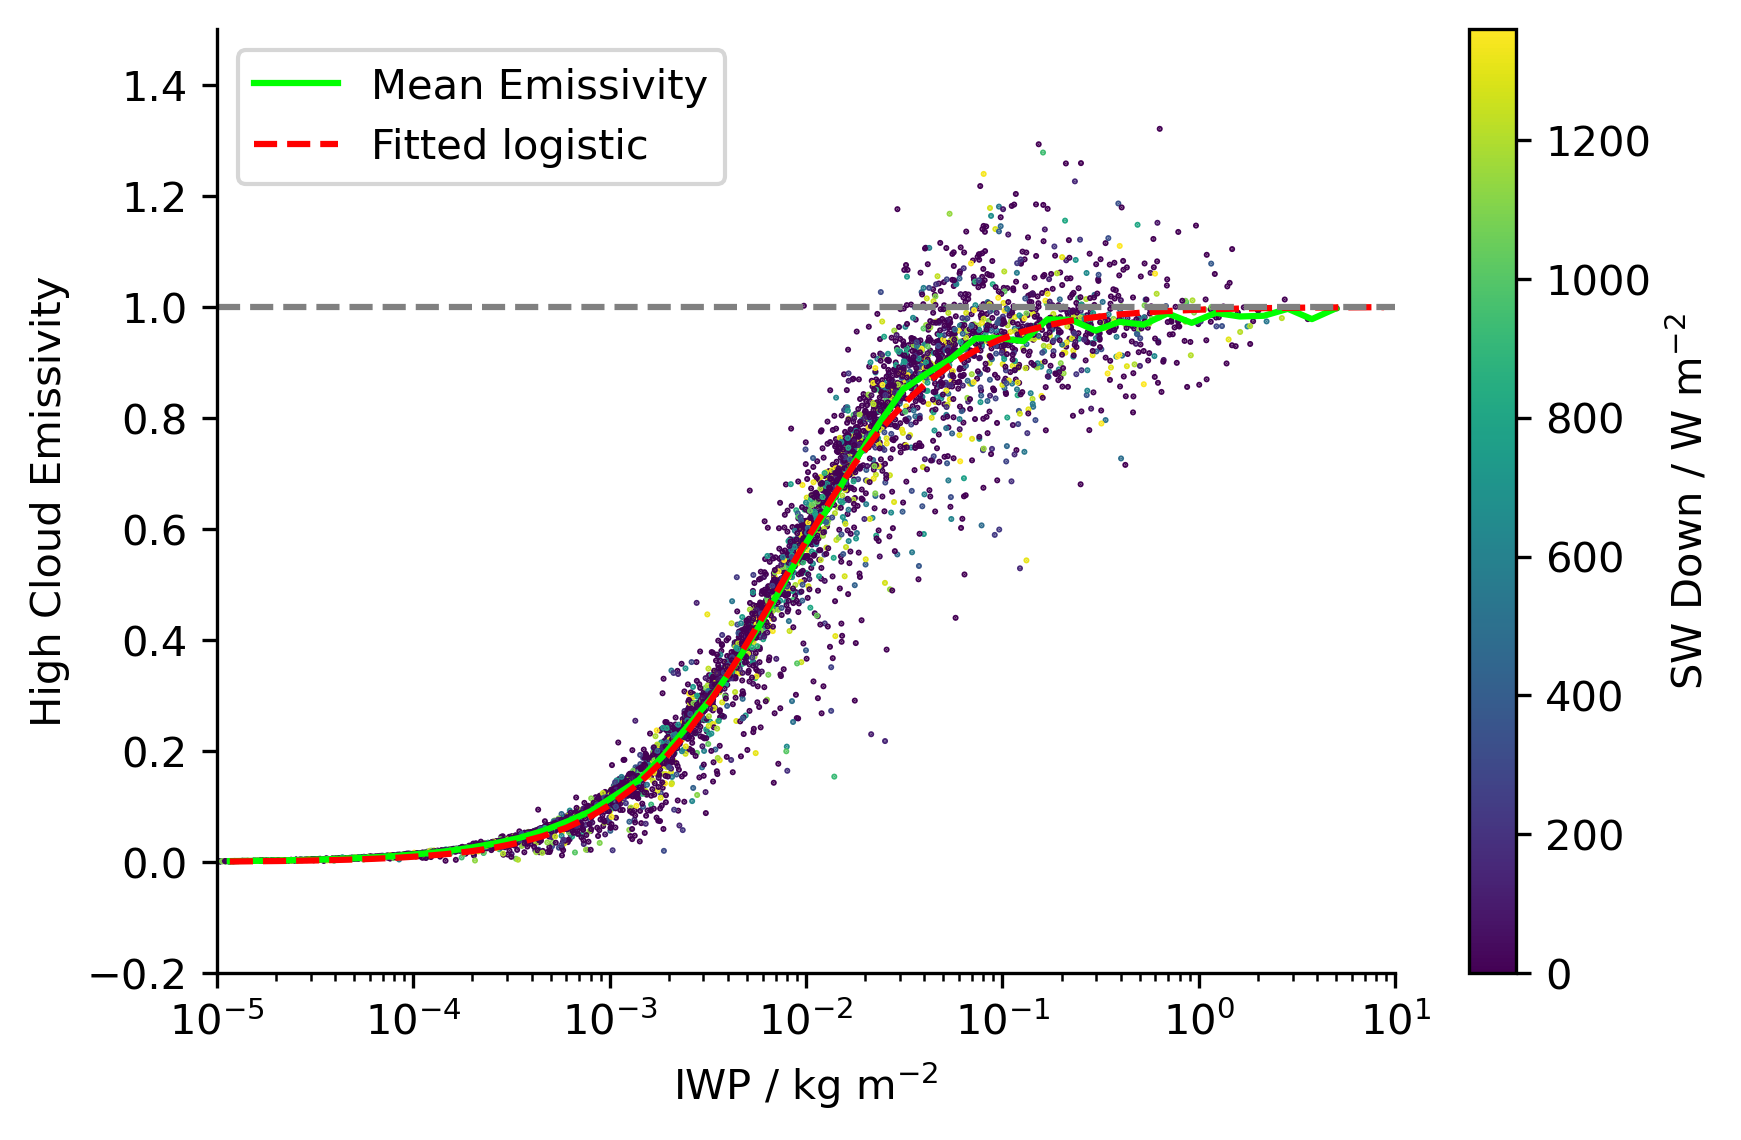
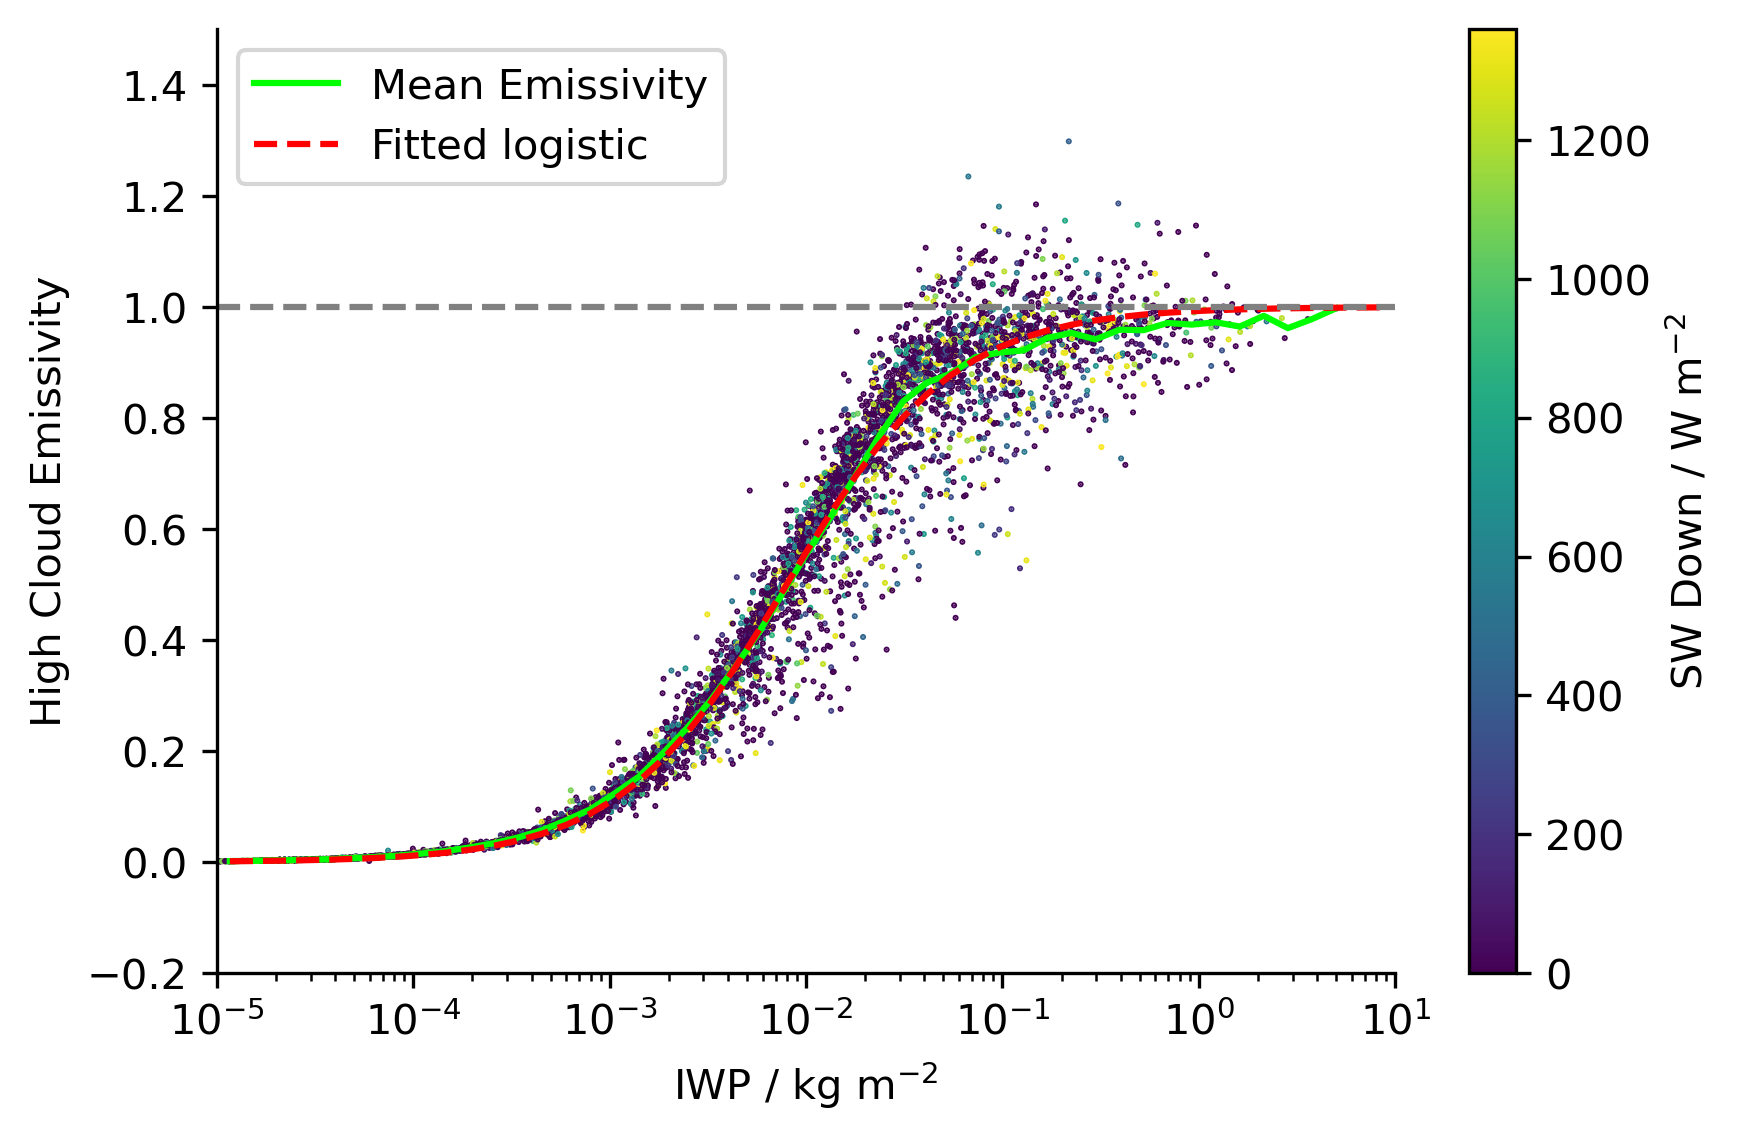
All frozen hydrometeors used to calculate high cloud top pressure

Changed region(s): [[0.2171, 0.1842, 0.7444, 0.7675]]

diff --git a/src/process_icon_arts/calculate_albedo_t_and_R_t.py b/src/process_icon_arts/calculate_albedo_t_and_R_t.py
@@ -47,7 +47,6 @@ LWP_bins = np.logspace(-14, 2, num=150)
 LWP_points = (LWP_bins[1:] + LWP_bins[:-1]) / 2
 SW_down_bins = np.linspace(0, 1360, 30)
 binned_allsky_albedo = np.zeros([len(LWP_bins) - 1, len(SW_down_bins) - 1]) * np.nan
-binned_clearsky_albedo = np.zeros(len(SW_down_bins) - 1) * np.nan
 
 # allsky albedo depends on SW and LWP
 for i in range(len(LWP_bins) - 1):
@@ -61,17 +60,6 @@ for i in range(len(LWP_bins) - 1):
             .mean()
             .values
         )
-
-# clearsky albedo depends on SW only
-for j in range(len(SW_down_bins) - 1):
-    SW_mask = (fluxes_3d["clearsky_sw_down"].isel(pressure=-1) > SW_down_bins[j]) & (
-        fluxes_3d["clearsky_sw_down"].isel(pressure=-1) <= SW_down_bins[j + 1]
-    )
-    binned_clearsky_albedo[j] = float(
-        (lc_vars["albedo_clearsky"].where(SW_mask).sel(lat=slice(-30, 30)))
-        .mean()
-        .values
-    )
 
 # %% interpolate albedo bins
 non_nan_indices = np.array(np.where(~np.isnan(binned_allsky_albedo)))
@@ -119,7 +107,7 @@ mean_lc_vars.index = LWP_points
 mean_lc_vars.index.name = "LWP"
 mean_lc_vars["binned_albedo"] = mean_allsky_albedo
 mean_lc_vars["interpolated_albedo"] = mean_allsky_albedo_interp
-mean_clearsky_albedo = np.sum(binned_clearsky_albedo * SW_down) / np.sum(SW_down)
+mean_clearsky_albedo = lc_vars["albedo_clearsky"].sel(lat=slice(-30, 30)).mean().values
 
 # calculate average albedo for LWP > 1e-6
 number_of_points = np.zeros(len(LWP_points))
@@ -166,10 +154,13 @@ fig, ax = scatterplot(
     xlim=[1e-14, 1e2],
 )
 
-ax.axhline(mean_clearsky_albedo, color="k", linestyle="-")
-ax.axhline(average_albedo, color="grey", linestyle=":")
-ax.plot(mean_lc_vars["interpolated_albedo"], color="k", linestyle="-")
-ax.plot(LWP_points, logistic_curve, color="r", linestyle="--")
+ax.axhline(mean_clearsky_albedo, color="k", linestyle="--", label="Mean clearsky")
+ax.axhline(average_albedo, color="grey", linestyle="--", label='Mean low cloud')
+ax.plot(mean_lc_vars["interpolated_albedo"], color="k", linestyle="-", label="Mean")
+ax.plot(LWP_points, logistic_curve, color="r", linestyle="--", label="Fit")
+ax.legend()
+fig.tight_layout()
+fig.savefig("plots/albedo_vs_LWP.png", dpi=300)
 
 # %% plot clearsky albedo
 
@@ -194,9 +185,9 @@ print(f"Ocean albedo: {mean_ocean_albedo.values.round(4)}")
 
 # %% calculate R_t
 R_t = fluxes_3d_noice.isel(pressure=-1)["allsky_lw_up"]
-clearsky_flux = (
+clearsky_R_t = (
     fluxes_3d_noice.isel(pressure=-1)["clearsky_lw_up"].sel(lat=slice(-30, 30)).mean()
-)
+).values
 lc_vars["R_t"] = R_t
 
 # %% linear regression of R_t vs LWP for LWP > 1e-6
@@ -211,28 +202,39 @@ result = linregress(x_data, y_data)
 # %% average R_t over LWP bins
 R_t_binned = cut_data(R_t).groupby_bins(cut_data(atms["LWP"]), LWP_bins).mean()
 mean_lc_vars["binned_R_t"] = R_t_binned
-average_r_t = cut_data(R_t).where(mask_lwp).mean().values
+lc_R_t = cut_data(R_t).where(mask_lwp).mean().values
 
 # %% plot R_t vs LWP
-fig, ax = scatterplot(
-    cut_data(atms["LWP"]),
-    cut_data(lc_vars["R_t"]),
-    cut_data(fluxes_3d_noice.isel(pressure=-1)["clearsky_sw_down"]),
-    xlabel="LWP / kg m$^{-2}$",
-    ylabel="R$_t$",
-    cbar_label="SW Down / W m$^{-2}$",
-    xlim=[1e-6, 1e2],
-)
-mean_lc_vars["binned_R_t"].plot(ax=ax, color="red", linestyle="-")
-ax.axhline(clearsky_flux, color="k", linestyle="--")
-ax.axhline(average_r_t, color="grey", linestyle=":")
-lwp_points = np.logspace(-6, 2, 100)
+fig, ax = plt.subplots()
+
+ax.scatter(cut_data(atms["LWP"]),cut_data(lc_vars["R_t"]), marker=".", s=1, color="blue")
+
+mean_lc_vars["binned_R_t"].plot(ax=ax, color="k", linestyle="-", label='Mean')
+ax.axhline(clearsky_R_t, color="k", linestyle="--", label='Mean clearsky')
+ax.axhline(lc_R_t, color="grey", linestyle="--", label='Mean low cloud')
+lwp_points = np.logspace(-14, 2, 100)
+
+# regression line
+y = result.intercept + result.slope * np.log10(lwp_points)
+mask = y > clearsky_R_t
+y[~mask] = clearsky_R_t
 ax.plot(
     lwp_points,
-    result.intercept + result.slope * np.log10(lwp_points),
-    color="k",
+    y,
+    color="red",
     linestyle="--",
+    label='Fit'
 )
+
+ax.spines["top"].set_visible(False)
+ax.spines["right"].set_visible(False)
+ax.set_xscale("log")
+ax.set_xlabel("LWP / kg m$^{-2}$")
+ax.set_ylabel("R$_t$ / W m$^{-2}$")
+ax.legend()
+fig.tight_layout()
+fig.savefig("plots/R_t_vs_LWP.png", dpi=300)
+
 
 # %% save variables
 path = "/work/bm1183/m301049/icon_arts_processed/derived_quantities/"
@@ -249,6 +251,6 @@ with open(path + "alpha_t_params.pkl", "wb") as f:
     pickle.dump(popt, f)
 
 with open(path + "average_a_t_r_t.pkl", "wb") as f:
-    pickle.dump({'a_t': average_albedo, 'R_t': average_r_t}, f)
+    pickle.dump({'a_t': average_albedo, 'R_t': lc_R_t}, f)
 
 # %%

diff --git a/src/plot_functions.py b/src/plot_functions.py
@@ -324,7 +324,7 @@ def plot_model_output(
 
     # lc fraction
     axes[1, 0].plot(result["lc_fraction"], color="magenta")
-    axes[1, 0].set_ylabel("lc_fraction")
+    axes[1, 0].set_ylabel(r"$f$")
 
     # alpha_t
     axes[1, 1].scatter(
@@ -335,9 +335,9 @@ def plot_model_output(
     )
     cut_data(fluxes_3d_noice["albedo_allsky"], mask).groupby_bins(
         cut_data(atms["IWP"], mask), bins=IWP_bins
-    ).mean().plot(ax=axes[1, 1], color="lime", label="Average")
+    ).mean().plot(ax=axes[1, 1], color="limegreen", label="Average")
     axes[1, 1].plot(result["alpha_t"], color="magenta", label="Model")
-    axes[1, 1].set_ylabel("alpha_t")
+    axes[1, 1].set_ylabel(r"$\alpha_t$")
 
     # R_t
     axes[2, 0].scatter(
@@ -345,30 +345,31 @@ def plot_model_output(
     )
     cut_data(lc_vars["R_t"], mask).groupby_bins(
         cut_data(atms["IWP"],mask), bins=IWP_bins
-    ).mean().plot(ax=axes[2, 0], color="lime", label="Average")
+    ).mean().plot(ax=axes[2, 0], color="limegreen", label="Average")
     axes[2, 0].plot(result["R_t"], color="magenta", label="Model")
     axes[2, 0].set_ylabel(r"$\mathrm{R_t}$ / $\mathrm{W ~ m^{-2}}$")
 
     # hc albedo
     axes[2, 1].scatter(
-        cut_data(atms["IWP"], mask & lw_vars["mask_hc_no_lc"]),
-        cut_data(sw_vars["high_cloud_albedo"], mask & lw_vars["mask_hc_no_lc"]),
+        cut_data(atms["IWP"], mask),
+        cut_data(sw_vars["high_cloud_albedo"], mask),
         s=0.1,
         color="k",
     )
     axes[2, 1].plot(
         sw_vars_avg.index,
         sw_vars_avg["interpolated_albedo"],
-        color="lime",
+        color="limegreen",
         label="Average",
     )
     axes[2, 1].plot(result["alpha_hc"], color="magenta", label="Model")
-    axes[2, 1].set_ylabel("alpha_hc")
+    axes[2, 1].set_ylabel(r"$\alpha$")
+    axes[2, 1].set_ylim(0, 1)
 
     # hc emissivity
     axes[3, 0].scatter(
-        cut_data(atms["IWP"], mask & lw_vars["mask_hc_no_lc"]),
-        cut_data(lw_vars["high_cloud_emissivity"], mask & lw_vars["mask_hc_no_lc"]),
+        cut_data(atms["IWP"], mask),
+        cut_data(lw_vars["high_cloud_emissivity"], mask),
         s=0.1,
         color="k",
         label="data",
@@ -376,11 +377,12 @@ def plot_model_output(
     axes[3, 0].plot(
         lw_vars_avg.index,
         lw_vars_avg["binned_emissivity"],
-        color="lime",
+        color="limegreen",
         label="Average",
     )
     axes[3, 0].plot(result["em_hc"], color="magenta", label="Model")
-    axes[3, 0].set_ylabel("em_hc")
+    axes[3, 0].set_ylabel(r"$\epsilon$")
+    axes[3, 0].set_ylim(0, 1.3)
 
     # CRE
     axes[3, 1].plot(result["SW_cre"], color="blue", label="SW")
@@ -396,7 +398,7 @@ def plot_model_output(
         axes[3, 1].plot(
             cre_average["IWP"], cre_average["all_net"], color="k", linestyle="--"
         )
-    if mode == 'ice_only':
+    elif mode == 'ice_only':
         axes[3, 1].plot(
             cre_average["IWP"], cre_average["ice_only_sw"], color="blue", linestyle="--"
         )
@@ -406,8 +408,19 @@ def plot_model_output(
         axes[3, 1].plot(
             cre_average["IWP"], cre_average["ice_only_net"], color="k", linestyle="--"
         )
+    elif mode == 'ice_over_lc':
+        axes[3, 1].plot(
+            cre_average["IWP"], cre_average["ice_over_lc_sw"], color="blue", linestyle="--"
+        )
+        axes[3, 1].plot(
+            cre_average["IWP"], cre_average["ice_over_lc_lw"], color="red", linestyle="--"
+        )
+        axes[3, 1].plot(
+            cre_average["IWP"], cre_average["ice_over_lc_net"], color="k", linestyle="--"
+        )
     else:
-        pass
+        raise ValueError('mode must be one of "all", "ice_only", "ice_over_lc"')
+
     axes[3, 1].set_ylabel("CRE / W m${^-2}$")
     axes[3, 1].legend()
 

diff --git a/src/plot/test_full_model.py b/src/plot/test_full_model.py
@@ -33,7 +33,7 @@ parameters['threshold_lc_fraction'] = 1e-6
 
 # %% set mask ans bins 
 mask = lw_vars["mask_height"]
-IWP_bins = np.logspace(-5, 0, num=70)
+IWP_bins = np.logspace(-5, 1, num=70)
 
 # %% calculate presctibed lc quantities
 prescribed_lc_quantitites = {
@@ -55,8 +55,8 @@ result = run_model(
     LWP = cut_data(atms['LWP'], mask),
     IWP = cut_data(atms['IWP'], mask),
     parameters = parameters,
-    const_lc_quantities=const_lc_quantities,
-    prescribed_lc_quantities=None
+    const_lc_quantities=None,
+    prescribed_lc_quantities=prescribed_lc_quantitites
 )
 
 # %% plot model results
@@ -72,11 +72,12 @@ fig, axes = plot_model_output(
     sw_vars_avg,
     lc_vars,
     cre_average,
+    mode='all'
 )
 
-fig.suptitle("LWP dependent model, lc_fraction from 1e-6", fontsize=12)
+fig.suptitle("Prescribed LC Quantities", fontsize=12)
 fig.tight_layout()
-#fig.savefig("plots/model_tests/1e-6lcfprescribed_at_r_t.png", dpi=300)
+fig.savefig("plots/model_tests/prescribed_lc_params_all_ice.png", dpi=300)
 
  # %% run model for all profiles with cloud tops above 350 hPa and no low clouds below the high clouds 
 mask = lw_vars["mask_height"] & lw_vars['mask_hc_no_lc']
@@ -108,6 +109,42 @@ fig, axes = plot_model_output(
     lc_vars,
     cre_average,
     mode='ice_only'
+)
+fig.suptitle("No LC Below HC", fontsize=12)
+fig.tight_layout()
+fig.savefig("plots/model_tests/hc_no_lc.png", dpi=300)
+
+# %% run model for all profiles with cloud tops above 350 hPa and low clouds below the high clouds
+mask = lw_vars["mask_height"] & ~lw_vars['mask_hc_no_lc']
+
+result = run_model(
+    IWP_bins,
+    albedo_cs = albedo_cs, 
+    R_t_cs = R_t_cs,
+    SW_in = SW_in,
+    T_hc = cut_data(lw_vars["h_cloud_temperature"], mask),
+    LWP = cut_data(atms['LWP'], mask),
+    IWP = cut_data(atms['IWP'], mask),
+    parameters = parameters,
+    const_lc_quantities=const_lc_quantities,
+    prescribed_lc_quantities=None
+)
+
+
+# %% plot results
+fig, axes = plot_model_output(
+    result,
+    IWP_bins,
+    mask,
+    atms,
+    fluxes_3d_noice,
+    lw_vars,
+    lw_vars_avg,
+    sw_vars,
+    sw_vars_avg,
+    lc_vars,
+    cre_average,
+    mode='ice_over_lc'
 )
 
 # %%

diff --git a/src/process_icon_arts/calculate_emissivity_noice.py b/src/process_icon_arts/calculate_emissivity_noice.py
@@ -8,6 +8,7 @@ import pandas as pd
 from src.read_data import load_atms_and_fluxes
 from src.plot_functions import scatterplot
 from scipy.optimize import curve_fit
+import matplotlib as mpl
 
 # %% load freddis data
 atms, fluxes_3d, fluxes_3d_noice = load_atms_and_fluxes()
@@ -19,7 +20,7 @@ mean_lw_vars = pd.DataFrame()
 # %% calculate high cloud temperature from vertically integrated IWP
 IWC_emission = 1e-3  # IWP where high clouds become opaque
 
-p_top_idx_thin = atms["IWC"].argmax("pressure")
+p_top_idx_thin = (atms["IWC"] + atms['snow'] + atms['graupel']).argmax("pressure")
 p_top_bool_thick = atms["IWC_cumsum"] > IWC_emission
 # finds the first index along pressure where the condition is false,
 p_top_idx_thick = p_top_bool_thick.argmin("pressure") - 1
@@ -36,8 +37,6 @@ lw_vars["mask_height"] = mask_height
 lw_vars["mask_hc_no_lc"] = mask_hc_no_lc
 
 # %% plot p_top
-import matplotlib as mpl
-
 fig, ax = plt.subplots(figsize=(7, 5))
 sc = ax.scatter(
     atms["IWP"].sel(lat=slice(-30, 30)),

diff --git a/src/process_icon_arts/calculate_quantities_freddis_runs.py b/src/process_icon_arts/calculate_quantities_freddis_runs.py
@@ -6,7 +6,7 @@ import cartopy.crs as ccrs
 
 # %% load data from freddis runs
 path_freddi = "/work/bm1183/m301049/icon_arts_processed/"
-run = "fullrange_flux_mid1deg_noice/"
+run = "fullrange_flux_mid1deg/"
 atms = xr.open_dataset(path_freddi + run + "atms.nc")
 fluxes_3d = xr.open_dataset(path_freddi + run + "fluxes_3d.nc")
 aux = xr.open_dataset(path_freddi + run + "aux.nc")
@@ -44,7 +44,7 @@ atms["IWP"] = ((atms["IWC"] + atms["snow"] + atms["graupel"]) * cell_height).sum
 atms["LWP"] = ((atms["rain"] + atms["LWC"]) * cell_height).sum("pressure")
 
 # ice mass needs to be reversed along pressure coord to calculate cumsum from the toa
-ice_mass = ((atms["IWC"]) * cell_height).reindex(pressure=list(reversed(atms.pressure)))
+ice_mass = ((atms["IWC"] + atms['graupel'] + atms['snow']) * cell_height).reindex(pressure=list(reversed(atms.pressure)))
 atms["IWC_cumsum"] = ice_mass.cumsum("pressure").reindex(pressure=list(reversed(atms.pressure)))
 
 # %% calculate lc fraction
